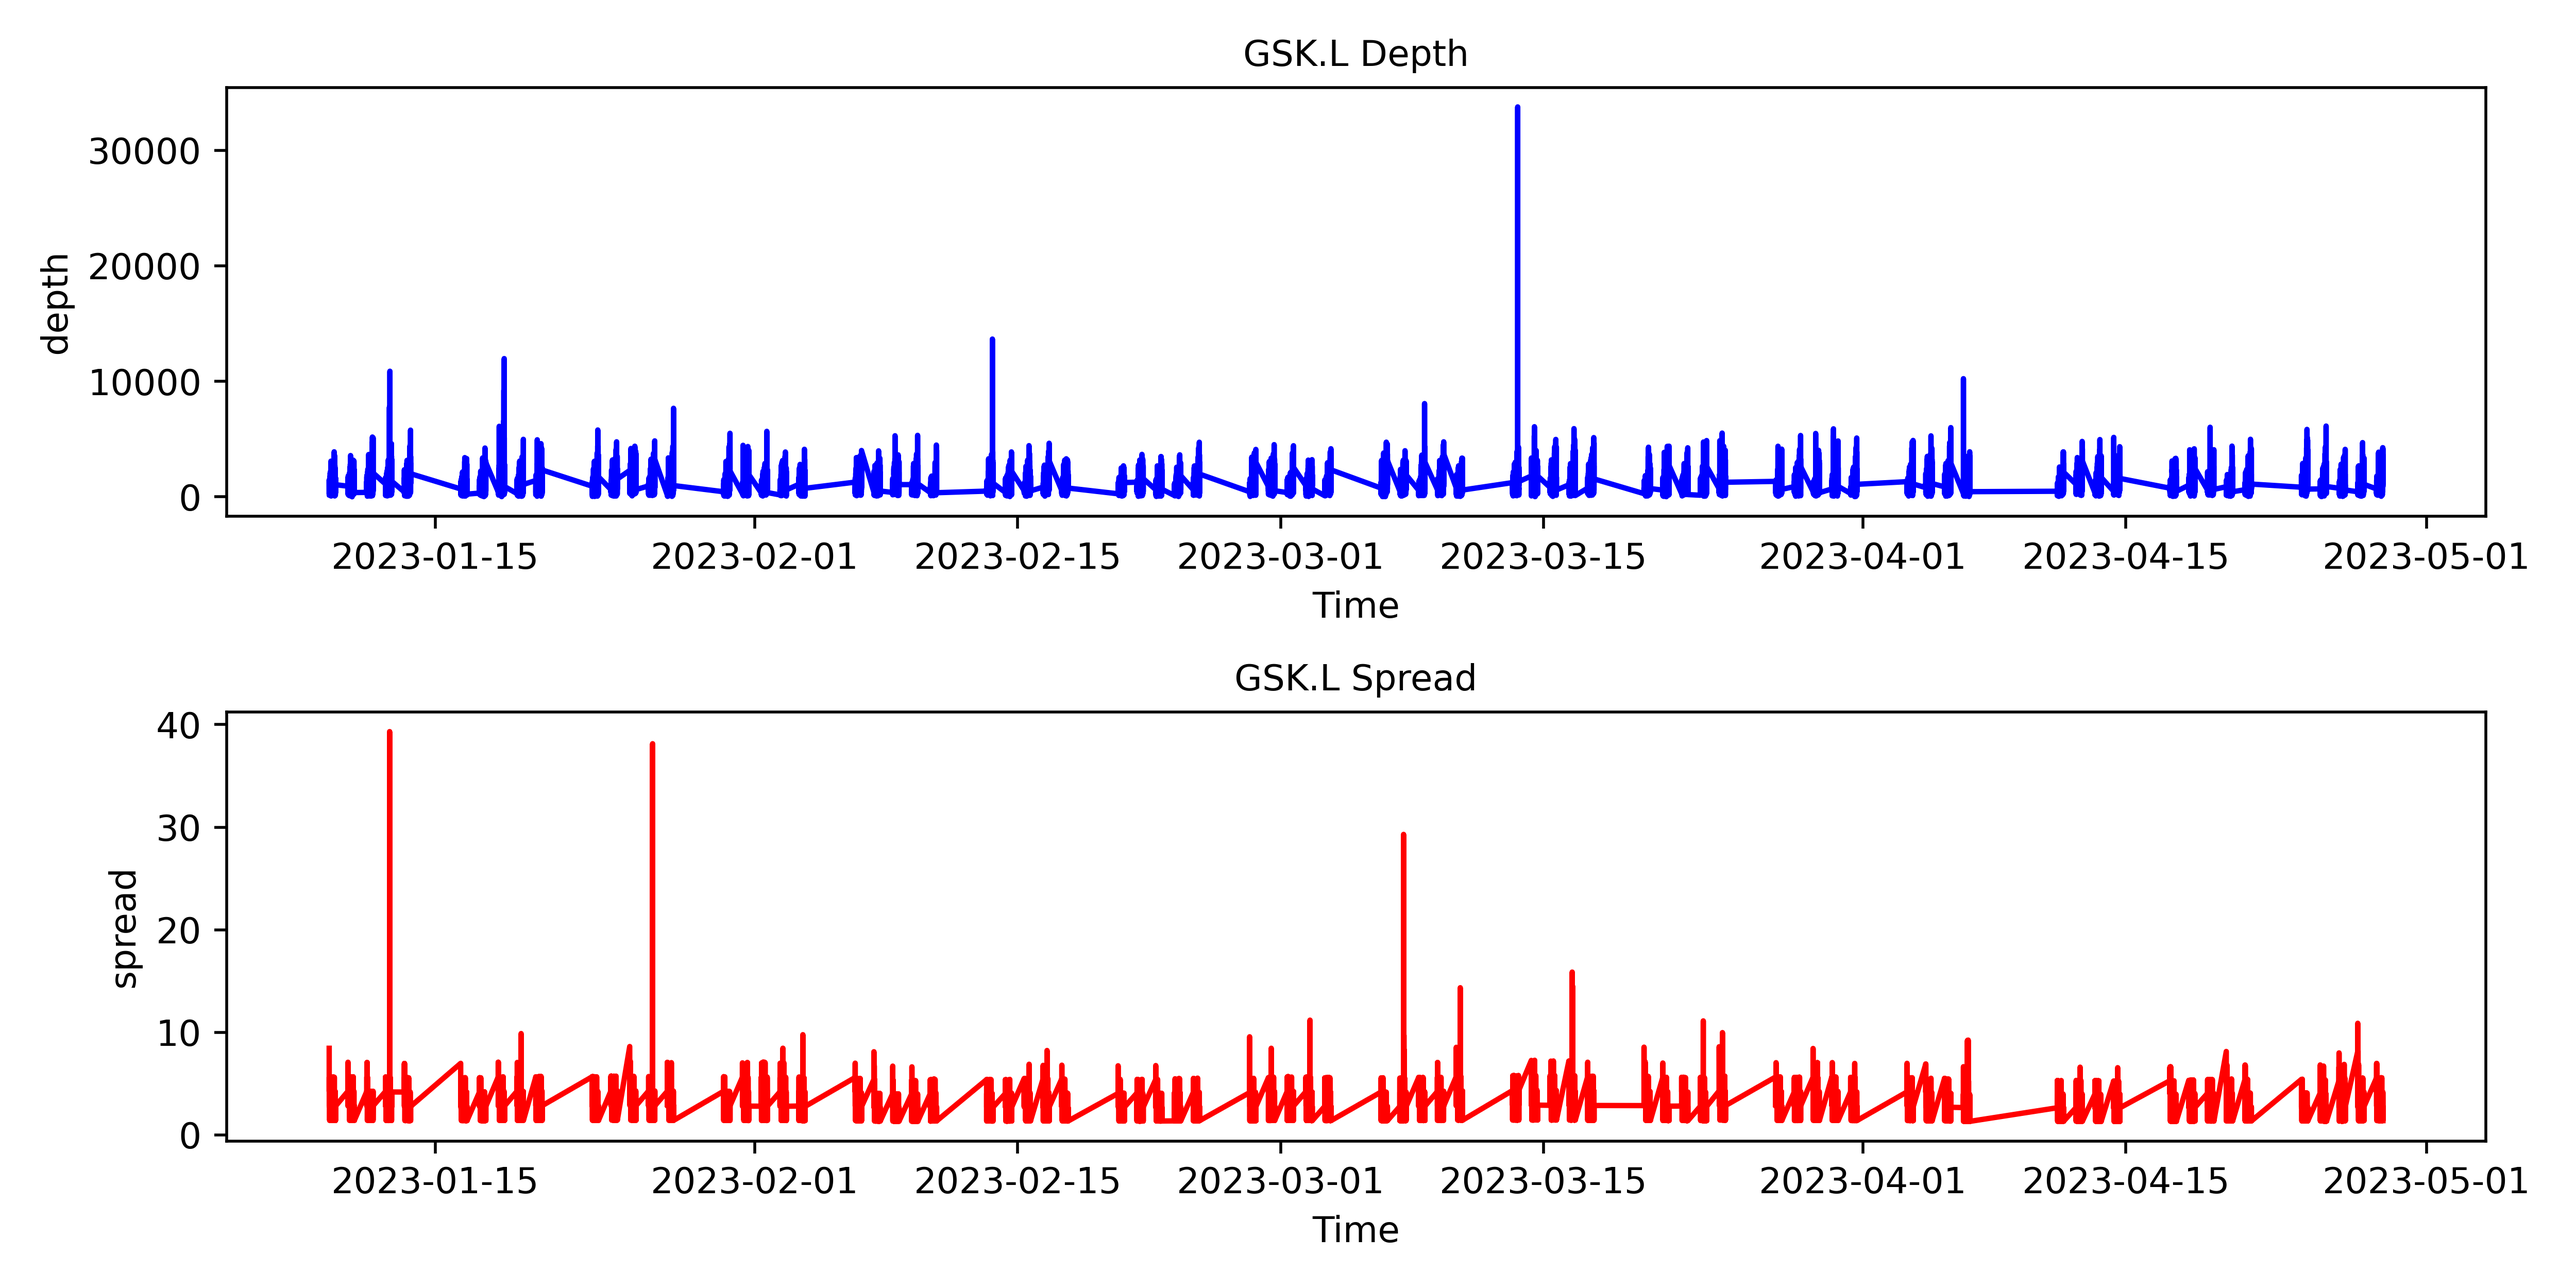
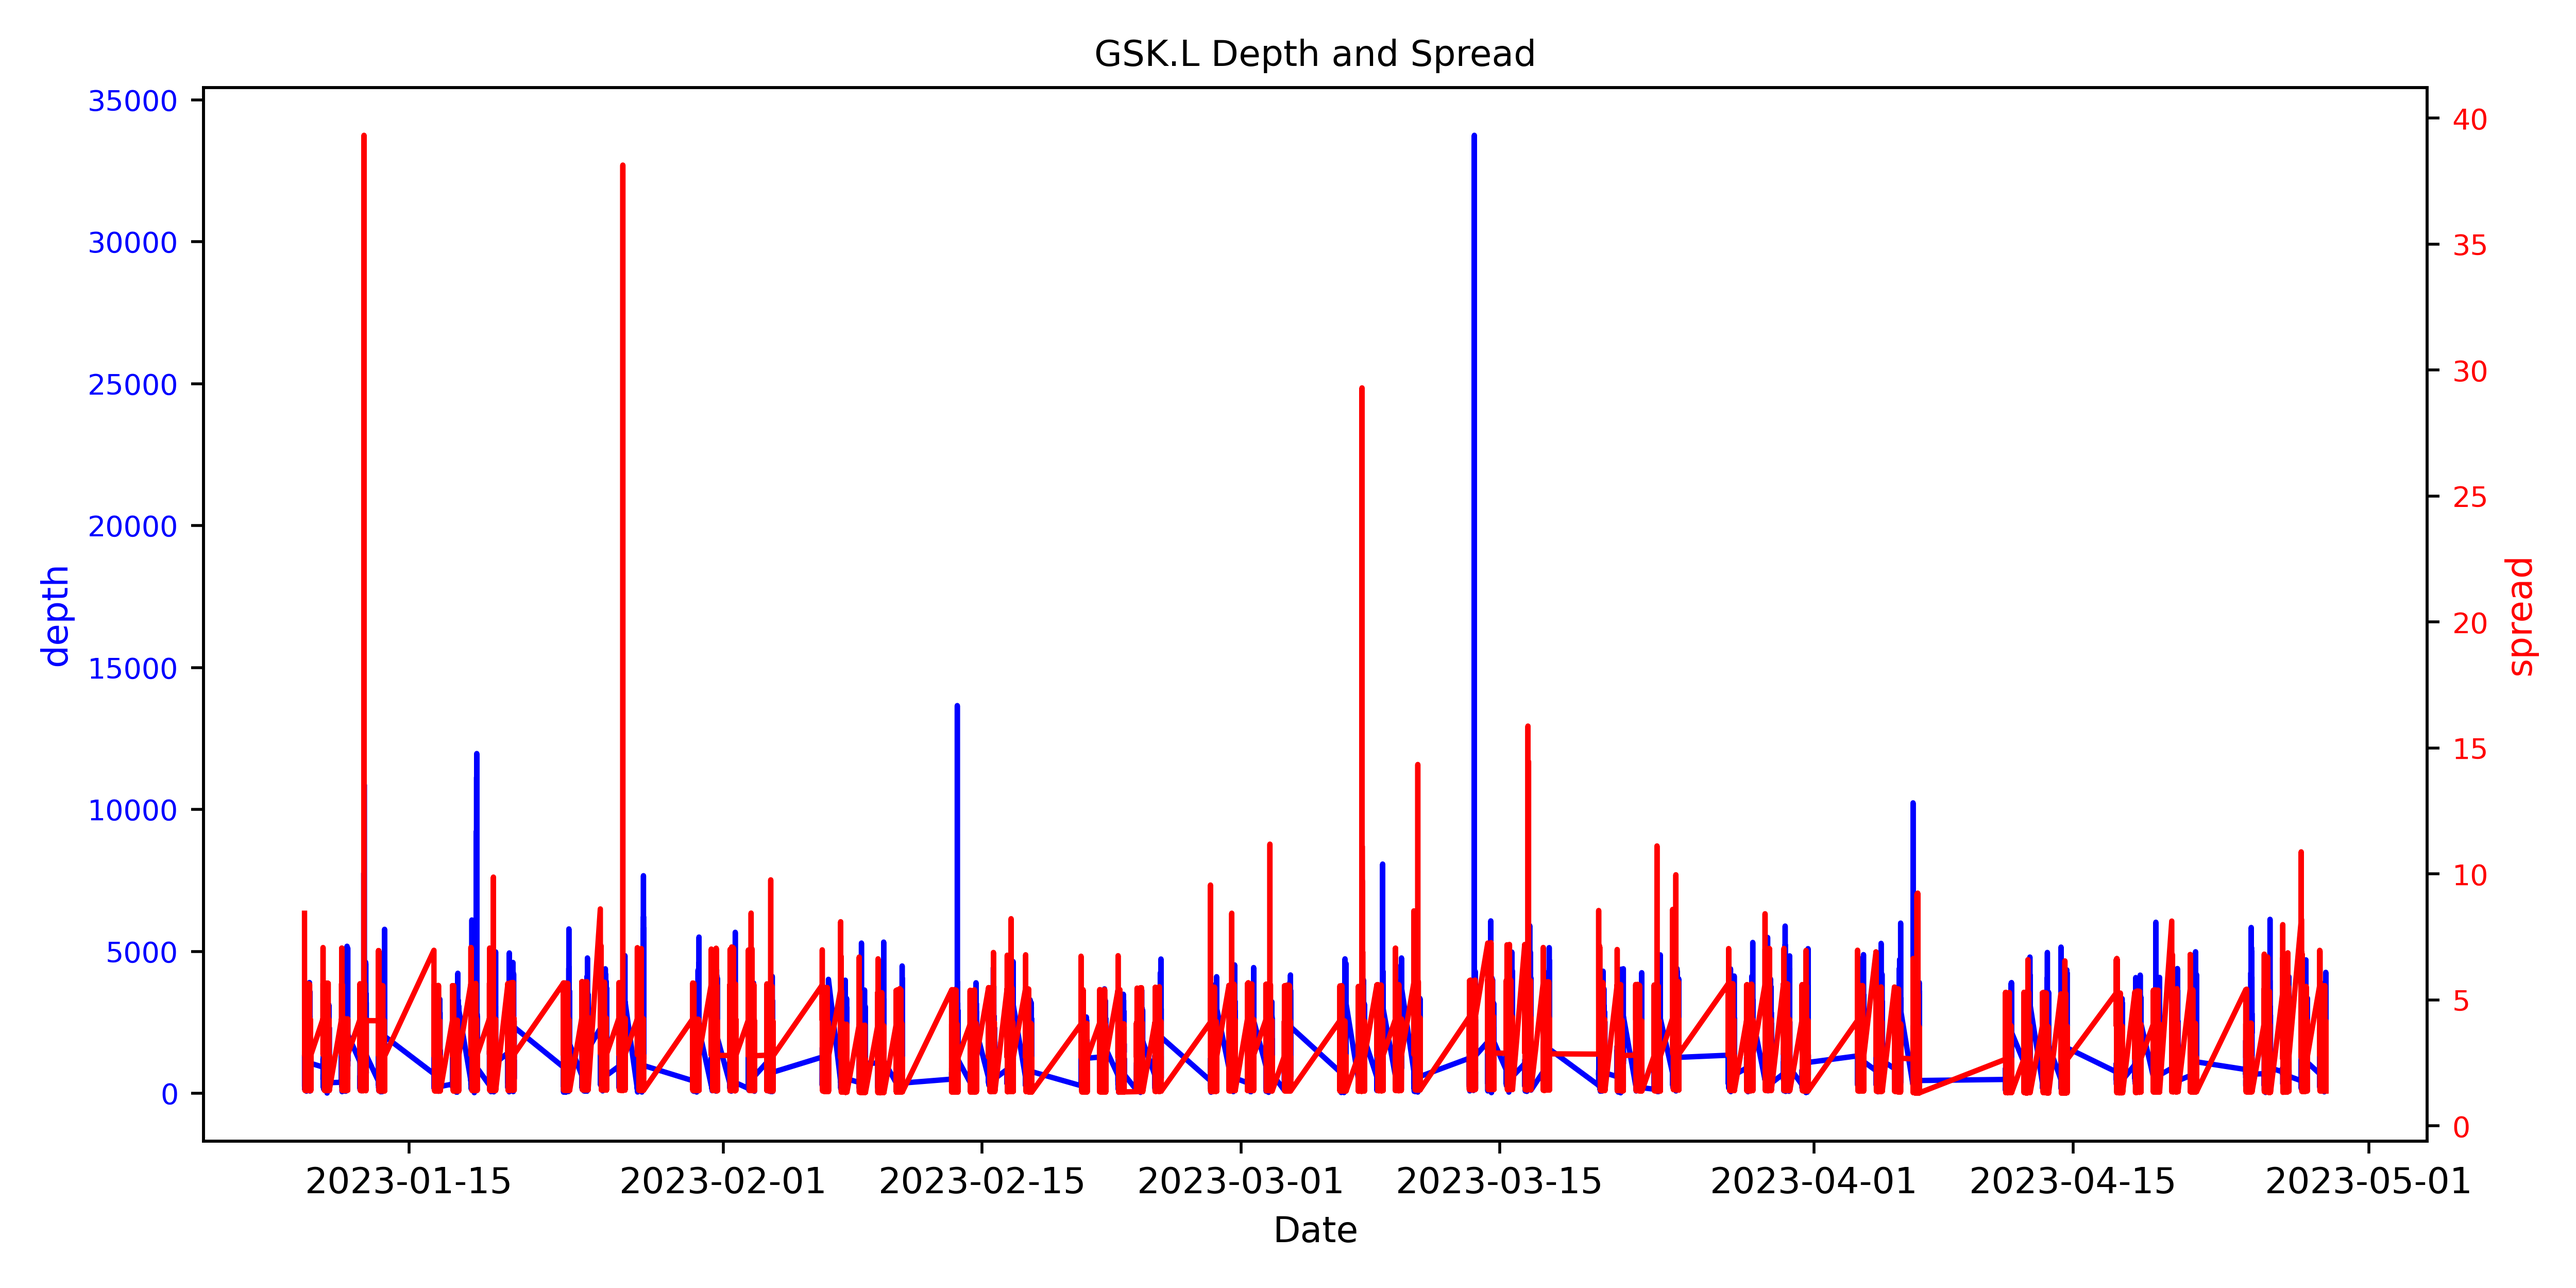
make some changes to the plot

diff --git a/coursework.py b/coursework.py
@@ -1,9 +1,9 @@
 #%% data preprocessing
-import pandas
 import pandas as pd
 import matplotlib.pyplot as plt
 import numpy as np
 from matplotlib.font_manager import FontProperties
+import statsmodels.api as sm
 def load_data():
     data = pd.read_csv('LDN_60s.csv')
     data['dateFormatted'] = pd.to_datetime(data['DateTime'].str[:26],
@@ -50,13 +50,18 @@ font.set_family('sans-serif')
 
 for stock in stocks:
     subset = data[data['Stock'] == stock]
-    fig, axs = plt.subplots(nrows=2, figsize=(10, 5), dpi=500)
+    fig, ax1 = plt.subplots(figsize=(10, 5), dpi=500)
 
-    for ax, col, color in zip(axs, columns_to_plot,colors):
-        ax.plot(subset['dateFormatted'], subset[col], color=color)
-        ax.set_title(f'{str(stock) + " " + col.capitalize()}', fontproperties = font)
-        ax.set_xlabel('Time', fontproperties = font)
-        ax.set_ylabel(col, fontproperties = font)
+    ax1.plot(subset['dateFormatted'], subset[columns_to_plot[0]], color=colors[0])
+    ax1.set_title(f'{str(stock)+ " " + "Depth and Spread" }', fontproperties=font)
+    ax1.set_xlabel('Date', fontproperties=font)
+    ax1.set_ylabel(columns_to_plot[0], color=colors[0], fontproperties=font)
+    ax1.tick_params(axis='y', labelcolor=colors[0], labelsize=8)
+
+    ax2 = ax1.twinx()
+    ax2.plot(subset['dateFormatted'], subset[columns_to_plot[1]], color=colors[1])
+    ax2.set_ylabel(columns_to_plot[1], color=colors[1], fontproperties=font)
+    ax2.tick_params(axis='y', labelcolor=colors[1], labelsize=8)
 
     plt.tight_layout()
     plt.savefig(f'{foutput_path}/{str(stock) + "time_series.png"}',dpi=500)
@@ -135,7 +140,6 @@ for stock in stocks:
     correlation_table = pd.concat([correlation_table,newrow],ignore_index=True)
     correlation_table.to_csv(f'{doutput_path}/correlation.csv')
 #%% 1.3.3 linear regression
-import statsmodels.api as sm
 daily_stats = daily_stats.dropna(subset=['Stock'])
 stocks = daily_stats['Stock'].unique()
 regression_results = pd.DataFrame(columns=['Stock', 'Dependent', 'Intercept', 'Slope', 'p-value','R-squared'])
